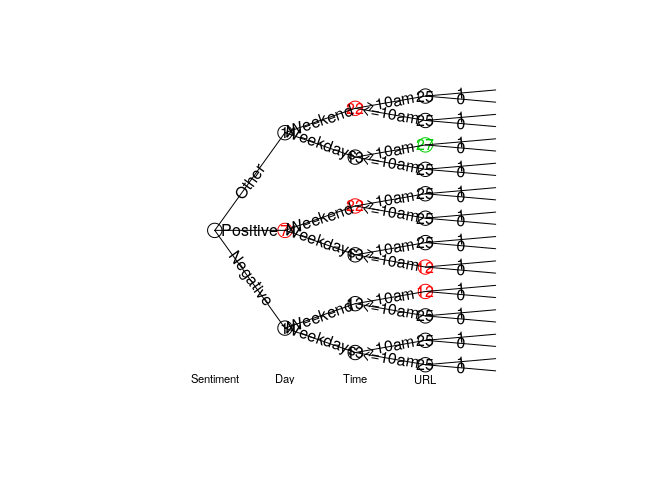
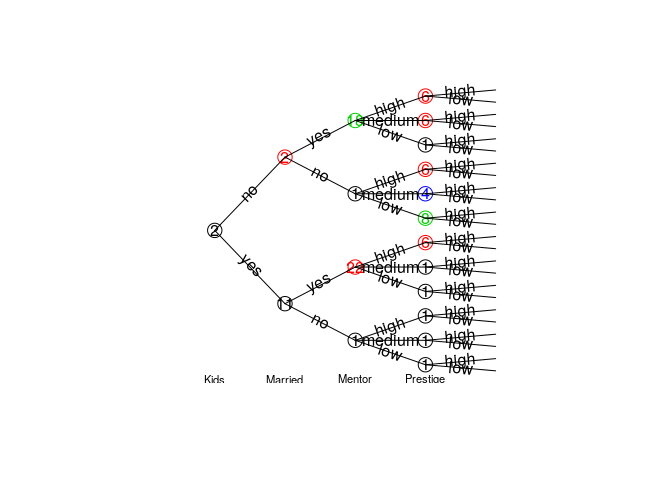
[f[ removed trump dataset, Closes #46

diff --git a/README.md b/README.md
@@ -29,22 +29,22 @@ With the `stagedtrees` package it is possible to fit (stratified) staged event t
 A staged event tree object (`sevt` class) can be created with the function `staged_ev_tree`, or with the functions `indep` and `full`. In general we create a staged event tree from data in a `data.frame` or `table` object.
 
 ``` r
-# Load the Trump tweets data
-data("Trump")
+# Load the PhDArticles data
+data("PhDArticles")
 
 # Create the independence model 
-mod_indep <- indep(Trump, lambda = 1)
+mod_indep <- indep(PhDArticles, lambda = 1)
 mod_indep
 ## Staged event tree (fitted) 
-## Source[2] -> Words[2] -> Sentiment[3] -> Day[2] -> Time[2] -> URL[2]  
-## 'log Lik.' -11868.2 (df=7)
+## Articles[3] -> Gender[2] -> Kids[2] -> Married[2] -> Mentor[3] -> Prestige[2]  
+## 'log Lik.' -4407.498 (df=8)
 
 #Create the full (saturated) model
-mod_full <- full(Trump, lambda = 1) 
+mod_full <- full(PhDArticles, lambda = 1) 
 mod_full
 ## Staged event tree (fitted) 
-## Source[2] -> Words[2] -> Sentiment[3] -> Day[2] -> Time[2] -> URL[2]  
-## 'log Lik.' -10027.01 (df=95)
+## Articles[3] -> Gender[2] -> Kids[2] -> Married[2] -> Mentor[3] -> Prestige[2]  
+## 'log Lik.' -4066.97 (df=143)
 ```
 
 #### Model selection
@@ -62,8 +62,8 @@ This methods perform optimization of the model for a given score using different
 mod1 <- hc.sevt(mod_indep)
 mod1
 ## Staged event tree (fitted) 
-## Source[2] -> Words[2] -> Sentiment[3] -> Day[2] -> Time[2] -> URL[2]  
-## 'log Lik.' -10060.23 (df=16)
+## Articles[3] -> Gender[2] -> Kids[2] -> Married[2] -> Mentor[3] -> Prestige[2]  
+## 'log Lik.' -4118.434 (df=14)
 ```
 
 -   **Backward Hill-Climbing** `bhc.sevt(object, score, max_iter, trace)`
@@ -72,8 +72,8 @@ mod1
 mod2 <- bhc.sevt(mod_full)
 mod2
 ## Staged event tree (fitted) 
-## Source[2] -> Words[2] -> Sentiment[3] -> Day[2] -> Time[2] -> URL[2]  
-## 'log Lik.' -10032.62 (df=20)
+## Articles[3] -> Gender[2] -> Kids[2] -> Married[2] -> Mentor[3] -> Prestige[2]  
+## 'log Lik.' -4086.254 (df=19)
 ```
 
 -   **Backward Fast Hill-Climbing** `fbhc.sevt(object, score, max_iter, trace)`
@@ -82,8 +82,8 @@ mod2
 mod3 <- fbhc.sevt(mod_full, score = function(x) -BIC(x))
 mod3
 ## Staged event tree (fitted) 
-## Source[2] -> Words[2] -> Sentiment[3] -> Day[2] -> Time[2] -> URL[2]  
-## 'log Lik.' -10075.96 (df=16)
+## Articles[3] -> Gender[2] -> Kids[2] -> Married[2] -> Mentor[3] -> Prestige[2]  
+## 'log Lik.' -4146.642 (df=14)
 ```
 
 ##### Distance methods
@@ -94,8 +94,8 @@ mod3
 mod4 <- bj.sevt(mod_full)
 mod4
 ## Staged event tree (fitted) 
-## Source[2] -> Words[2] -> Sentiment[3] -> Day[2] -> Time[2] -> URL[2]  
-## 'log Lik.' -10062.74 (df=18)
+## Articles[3] -> Gender[2] -> Kids[2] -> Married[2] -> Mentor[3] -> Prestige[2]  
+## 'log Lik.' -4090.79 (df=22)
 ```
 
 -   **Naive model** `naive.sevt(full, distance, k)`
@@ -104,8 +104,8 @@ mod4
 mod5 <- naive.sevt(mod_full)
 mod5
 ## Staged event tree (fitted) 
-## Source[2] -> Words[2] -> Sentiment[3] -> Day[2] -> Time[2] -> URL[2]  
-## 'log Lik.' -10214.4 (df=13)
+## Articles[3] -> Gender[2] -> Kids[2] -> Married[2] -> Mentor[3] -> Prestige[2]  
+## 'log Lik.' -4118.437 (df=14)
 ```
 
 #### Probabilities, predictions and sampling
@@ -115,12 +115,12 @@ mod5
 Obtain marginal probabilities with the `prob.sevt` function.
 
 ``` r
-# estimated probability of (Source = "iOS", Sentiment = "Negative")
+# estimated probability of c(Gender = "male", Married = "yes")
 # using different models
-prob.sevt(mod_indep, c(Source = "iOS", Sentiment = "Negative")) 
-## [1] 0.1994159
-prob.sevt(mod3, c(Source = "iOS", Sentiment = "Negative"))
-## [1] 0.1646671
+prob.sevt(mod_indep, c(Gender = "male", Married = "yes")) 
+## [1] 0.3573183
+prob.sevt(mod3, c(Gender = "male", Married = "yes"))
+## [1] 0.3934668
 ```
 
 Or for a `data.frame` of observations:
@@ -129,19 +129,19 @@ Or for a `data.frame` of observations:
 obs <- expand.grid(mod_full$tree[c(2,3,5)])
 p <- prob.sevt(mod2, obs)
 cbind(obs, P = p)
-##    Words Sentiment   Time          P
-## 1   <=20  Negative <=10am 0.02306711
-## 2    >20  Negative <=10am 0.12653622
-## 3   <=20  Positive <=10am 0.04933506
-## 4    >20  Positive <=10am 0.07176951
-## 5   <=20     Other <=10am 0.02637204
-## 6    >20     Other <=10am 0.03101888
-## 7   <=20  Negative  >10am 0.10120134
-## 8    >20  Negative  >10am 0.14709251
-## 9   <=20  Positive  >10am 0.15850574
-## 10   >20  Positive  >10am 0.11137642
-## 11  <=20     Other  >10am 0.11570095
-## 12   >20     Other  >10am 0.03802423
+##    Gender Kids Mentor          P
+## 1    male  yes    low 0.07208877
+## 2  female  yes    low 0.03176117
+## 3    male   no    low 0.09832136
+## 4  female   no    low 0.11463987
+## 5    male  yes medium 0.09915181
+## 6  female  yes medium 0.03452265
+## 7    male   no medium 0.10643086
+## 8  female   no medium 0.14830958
+## 9    male  yes   high 0.08660225
+## 10 female  yes   high 0.02187397
+## 11   male   no   high 0.07702539
+## 12 female   no   high 0.10927233
 ```
 
 ##### Predictions
@@ -149,24 +149,25 @@ cbind(obs, P = p)
 A staged event tree object can be used to make predictions with the `predict` method. The class variable can be specified, otherwise the first variable (root) in the tree will be used.
 
 ``` r
-predicted <- predict(mod3, newdata = Trump)
-table(predicted, Trump$Source)
+predicted <- predict(mod3, newdata = PhDArticles)
+table(predicted, PhDArticles$Articles)
 ##          
-## predicted Android  iOS
-##   Android    1262  315
-##   iOS         108 1061
+## predicted   0 1-2  >2
+##       0    32  34  19
+##       1-2 225 351 149
+##       >2   18  39  48
 ```
 
 ##### Sampling
 
 ``` r
 sample.sevt(mod4, 5)
-##    Source Words Sentiment      Day   Time URL
-## 1     iOS  <=20  Negative Weekdays  >10am   0
-## 2     iOS  <=20     Other Weekdays  >10am   0
-## 3 Android  <=20  Negative  Weekend <=10am   0
-## 4     iOS  <=20  Negative Weekdays  >10am   1
-## 5 Android   >20     Other  Weekend <=10am   0
+##   Articles Gender Kids Married Mentor Prestige
+## 1      1-2   male   no     yes medium      low
+## 2      1-2 female   no      no medium      low
+## 3      1-2 female   no     yes    low     high
+## 4      1-2 female   no     yes medium     high
+## 5       >2   male   no     yes    low      low
 ```
 
 #### Explore the model
@@ -176,17 +177,17 @@ sample.sevt(mod4, 5)
 ``` r
 # Degrees of freedom
 df.sevt(mod_full)
-## [1] 95
+## [1] 143
 df.sevt(mod_indep)
-## [1] 7
+## [1] 8
 
 # variables 
 varnames.sevt(mod1)
-## [1] "Source"    "Words"     "Sentiment" "Day"       "Time"      "URL"
+## [1] "Articles" "Gender"   "Kids"     "Married"  "Mentor"   "Prestige"
 
 # number of variables
 nvar.sevt(mod1)
-## [1] 7
+## [1] 6
 ```
 
 ##### Plot
@@ -202,30 +203,23 @@ text(mod4, y = -0.03, cex = 0.7)
 ##### Stages
 
 ``` r
-stages.sevt(mod4, "Time")
-##  [1] "1"  "1"  "1"  "1"  "1"  "1"  "1"  "1"  "1"  "1"  "1"  "1"  "13" "13"
-## [15] "13" "13" "13" "13" "13" "13" "13" "22" "13" "22"
+stages.sevt(mod4, "Kids")
+## [1] "1" "2" "1" "2" "1" "2"
 ```
 
 ``` r
-stageinfo.sevt(mod4, var = "Time")
-## Stage  1 for variable Time 
-##    12 nodes in the stage 
-##    probabilities: <=10am      >10am 
-##                   0.517       0.483      
-##    sample size: 1370 
+stageinfo.sevt(mod4, var = "Kids")
+## Stage  1 for variable Kids 
+##    3 nodes in the stage 
+##    probabilities: yes      no 
+##                   0.478    0.522   
+##    sample size: 494 
 ## --------------------------------
-## Stage  13 for variable Time 
-##    10 nodes in the stage 
-##    probabilities: <=10am      >10am 
-##                   0.144       0.856      
-##    sample size: 1327 
-## --------------------------------
-## Stage  22 for variable Time 
-##    2 nodes in the stage 
-##    probabilities: <=10am      >10am 
-##                   0.02       0.98      
-##    sample size: 49 
+## Stage  2 for variable Kids 
+##    3 nodes in the stage 
+##    probabilities: yes      no 
+##                   0.191    0.809   
+##    sample size: 421 
 ## --------------------------------
 ```
 
@@ -234,7 +228,7 @@ stageinfo.sevt(mod4, var = "Time")
 A subtree can be extracted, the result is another staged event tree object in the remaining variables.
 
 ``` r
-sub <- subtree.sevt(mod4, c("iOS", ">20"))
+sub <- subtree.sevt(mod4, c(">2", "female"))
 plot(sub)
 text(sub, y = -0.03, cex = 0.7)
 ```
@@ -254,12 +248,12 @@ Penalized log-likelihood.
 
 ``` r
 BIC(mod_indep, mod_full, mod1, mod2, mod3, mod4, mod5)
-##           df      BIC
-## mod_indep  7 23791.82
-## mod_full  95 20806.23
-## mod1      16 20247.15
-## mod2      20 20223.59
-## mod3      16 20278.60
-## mod4      18 20268.00
-## mod5      13 20531.74
+##            df      BIC
+## mod_indep   8 8869.548
+## mod_full  143 9109.046
+## mod1       14 8332.333
+## mod2       19 8302.067
+## mod3       14 8388.749
+## mod4       22 8331.596
+## mod5       14 8332.338
 ```
